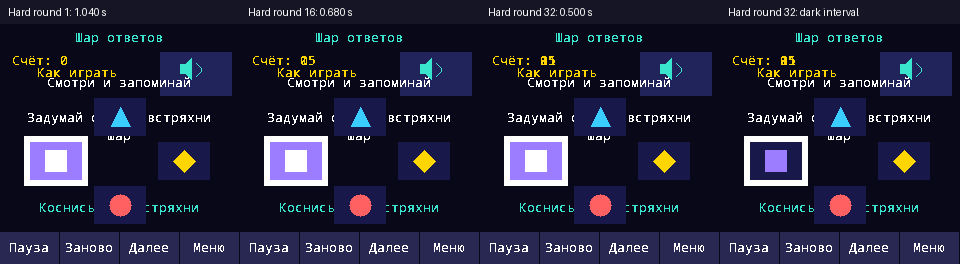
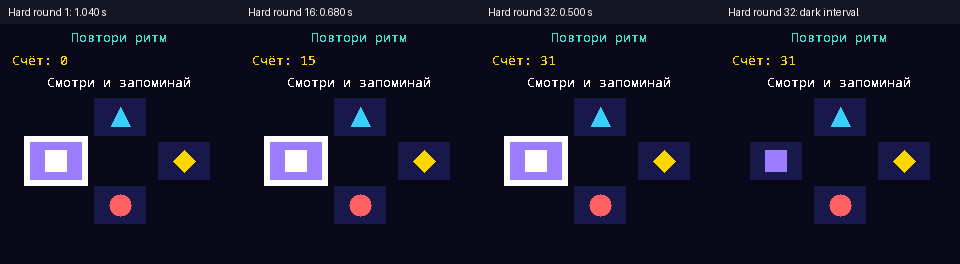
test: clear isolated Simon frames before visual comparison

diff --git a/src/infrastructure/simulator.cpp b/src/infrastructure/simulator.cpp
@@ -93,11 +93,15 @@ static int gallery(const std::string &directory) {
             }
             previous = cue;
             if (!captured && cue >= 0 && (round == 1 || round == 16 || round == 32)) {
+                fb.clear(Bg);
+                ui::text_box(fb, {8, 2, 224, 24}, accelerated.metadata().title, Accent);
                 accelerated.render(fb);
                 ppm((directory + "/sequence-round-" + std::to_string(round) + "-active.ppm").c_str());
                 captured = true;
             }
             if (round == 32 && captured && !dark_captured && cue < 0) {
+                fb.clear(Bg);
+                ui::text_box(fb, {8, 2, 224, 24}, accelerated.metadata().title, Accent);
                 accelerated.render(fb);
                 ppm((directory + "/sequence-round-32-dark.ppm").c_str());
                 dark_captured = true;

diff --git a/tests/sequence_timing_tests.cpp b/tests/sequence_timing_tests.cpp
@@ -47,12 +47,16 @@ static void exercise(Difficulty difficulty, uint32_t seed) {
                     pattern[count++] = cue;
                 }
                 ++on_ticks[count - 1];
-                if (count == 1 && on_ticks[0] == 1)
+                if (count == 1 && on_ticks[0] == 1) {
+                    lit.clear(Bg);
                     game.render(lit);
+                }
             } else if (count && game.phase() == SequencePhase::Showing) {
                 ++off_ticks[count - 1];
-                if (count == 1 && off_ticks[0] == 1)
+                if (count == 1 && off_ticks[0] == 1) {
+                    dark.clear(Bg);
                     game.render(dark);
+                }
             }
             previous = cue;
         }
